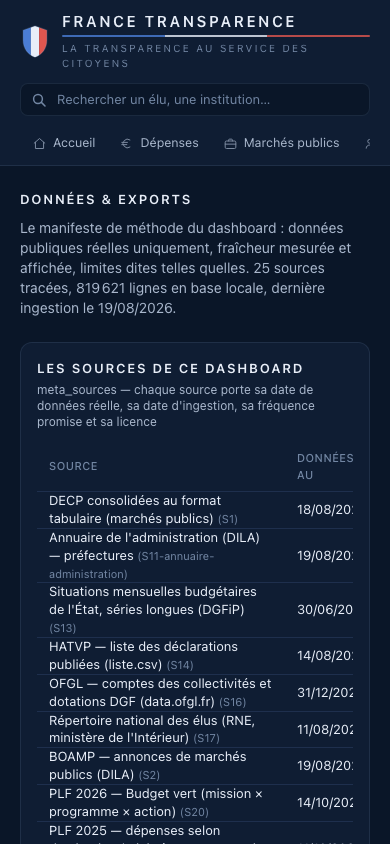
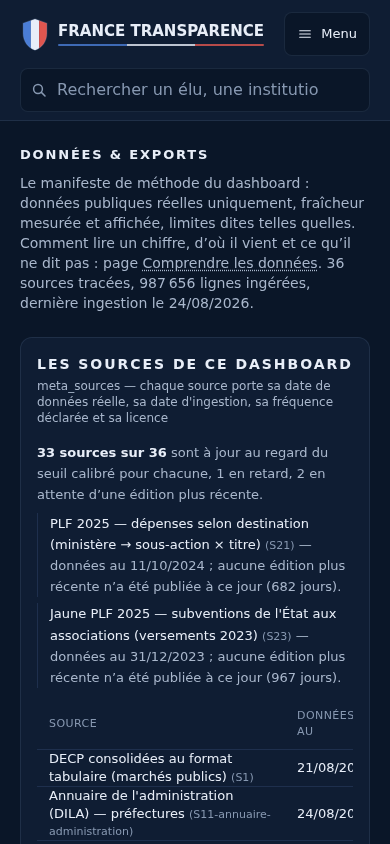
Le dépôt photographiait encore le chrome du 19/08
Les captures et le README disaient 30 sources, 10 onglets, pas
/comprendre : le site servi en a 36, 11 (dont Recettes), et
l'appareil pédagogique hors nav. G9 aligne la doc publique
sur l'écran actuel — pas un redesign.

Changed region(s): [[0.0923, 0.4005, 0.9231, 1.0], [0.0308, 0.154, 0.9231, 0.3697], [0.0615, 0.0, 0.9231, 0.1232]]

diff --git a/README.md b/README.md
@@ -1,14 +1,14 @@
 # France Transparence
 
-Dashboard web sur la transparence de la vie politique française : dépenses de l'État, commande publique, élus, lobbying, financement politique, frais et train de vie, Journal officiel — **100 % données publiques réelles**, aucun chiffre fabriqué. L'honnêteté est le principe produit : chaque module affiche la date réelle de ses données (badge de fraîcheur alimenté par la table `meta_sources`), le mot « en direct » est banni parce qu'aucune source publique ne le permet, et ce que l'open data ne contient pas est documenté comme tel (la « boîte noire » du module Frais & train de vie). L'ensemble tient dans une base SQLite unique, reconstruite localement depuis 30 sources officielles tracées.
+Dashboard web sur la transparence de la vie politique française : dépenses et recettes de l'État, commande publique, élus, lobbying, financement politique, frais et train de vie, finances locales, Journal officiel — **100 % données publiques réelles**, aucun chiffre fabriqué. L'honnêteté est le principe produit : chaque module affiche la date réelle de ses données (badge de fraîcheur alimenté par la table `meta_sources`), le mot « en direct » est banni parce qu'aucune source publique ne le permet, et ce que l'open data ne contient pas est documenté comme tel (la « boîte noire » du module Frais & train de vie, l'encart « hors champ » de l'accueil). L'ensemble tient dans une base SQLite unique, reconstruite localement depuis **36 sources officielles tracées** — le catalogue daté, avec la date réellement ingérée de chacune, est la page [`/donnees`](https://francetransparence.fr/donnees/), régénérée à chaque publication. Une page pédagogique [`/comprendre`](https://francetransparence.fr/comprendre/) — **hors navigation principale** — explique comment lire ces publications : glossaire, provenance, limites, journal des lectures.
 
-![Page d'accueil de France Transparence](docs/screenshots/accueil.png)
+![Page d'accueil, 24/08/2026 : onze onglets dont Recettes, champ de recherche dans le chrome, encart « hors champ » au-dessus du 240 Md€ d'exécution](docs/screenshots/accueil.png)
 
 ## Site public
 
 **https://francetransparence.fr**
 
-Export statique du dashboard, servi **directement par nginx** depuis un serveur dédié (Scaleway Dedibox, Ubuntu 22.04). **Aucun process Node en production** : le HTML est pré-rendu au build, nginx ne fait que servir des fichiers déjà écrits sur disque (et déjà compressés).
+Export statique du dashboard, servi **directement par nginx** depuis un serveur dédié (Scaleway Dedibox, Ubuntu 22.04). **Aucun process Node en production** : le HTML est pré-rendu au build, nginx ne fait que servir des fichiers déjà écrits sur disque (et déjà compressés). Thème sombre unique, **aucun cookie, aucun traceur** — le HTML servi n'en porte pas. Ce n'est pas un flux temps réel : la fraîcheur affichée est celle de la dernière ingestion qui a réussi à publier.
 
 Le site est reconstruit chaque matin vers 05:17 (heure de Paris) par le script serveur `ft-deploy`, déclenché par la minuterie systemd `ft-deploy.timer`. La publication est **tout ou rien** : mise à jour du dépôt → contrôle de l'identité de déploiement → ingestion de tous les pipelines → tests → build statique → contrôles de santé du site généré → **bascule atomique** du lien symbolique `current` vers la nouvelle release. Si une étape échoue, le lien ne bascule pas : l'ancienne version continue d'être servie sans interruption, et une alerte part. La fraîcheur affichée reste donc toujours celle de la base réellement construite.
 
@@ -41,9 +41,9 @@ make app-install  # npm install dans app/
 make dev          # http://localhost:3620
 ```
 
-Production : `make build` puis `cd app && npm run start` (port 3620 dans les deux cas).
+Le mode local SSR (`make build` puis `cd app && npm run start`, port 3620) n'est **pas** la production : en ligne, c'est `make build-static` (`FT_EXPORT=1`) servi par nginx, sans process Node.
 
-La base `data/france.db` (~490 Mo, 70 tables) est gitignorée : elle se reconstruit entièrement par `make ingest`.
+La base `data/france.db` (493 Mo, 81 tables et 6 vues au 24/08/2026 — ça bouge ; le schéma : [docs/SCHEMA-DB.md](docs/SCHEMA-DB.md)) est gitignorée : elle se reconstruit entièrement par `make ingest`.
 
 ## Ré-ingérer
 
@@ -53,7 +53,7 @@ La base `data/france.db` (~490 Mo, 70 tables) est gitignorée : elle se reconstr
 make ingest-<source>
 ```
 
-avec `<source>` parmi les pipelines déclarés dans la variable `PIPELINES` du `Makefile`, qui fait autorité : `referentiels`, `budget_mensuel`, `budget_structure`, `decp`, `boamp`, `approch`, `jorf`, `parlement`, `integrite`, `hatvp_declarations`, `lobbying`, `financement`, `collectivites`, `elections`, `trainvie`, `cada`, `registre_ue`, `dette_maastricht`, `deficit_maastricht`, `dole`, `agregats_apu`, `sirene`.
+avec `<source>` parmi les pipelines déclarés dans la variable `PIPELINES` du `Makefile`, qui fait autorité (24 cibles, dans cet ordre) : `referentiels`, `budget_mensuel`, `budget_structure`, `decp`, `boamp`, `approch`, `jorf`, `parlement`, `integrite`, `hatvp_declarations`, `lobbying`, `financement`, `collectivites`, `elections`, `trainvie`, `cada`, `registre_ue`, `dette_maastricht`, `deficit_maastricht`, `dole`, `agregats_apu`, `cge`, `protection_sociale`, `sirene`.
 
 ## Tests
 
@@ -78,26 +78,40 @@ Détails : [docs/ARCHITECTURE.md](docs/ARCHITECTURE.md).
 
 ## Modules du dashboard
 
+Onze onglets, dans l'ordre de la navigation (`MainNav`) — libellés complets, pas de 12ᵉ onglet. `/comprendre` et `/alertes` existent ; ce ne sont pas des onglets.
+
 | Route | Module | Contenu et fraîcheur réelle |
 |---|---|---|
-| `/` | Accueil | Compteurs, carte des marchés, flux JO et alertes — chaque bloc daté par sa source (budget au dernier mois publié, marchés J-1, JO du jour). |
-| `/depenses` | Dépenses de l'État | Exécution mensuelle DGFiP (~6 semaines de décalage), structure PLF 2026 (mention « PLF » : la LFI 2026 n'existe pas en données), 112 722 subventions aux associations (versements 2023). |
-| `/marches` | Commande publique | Plusieurs centaines de milliers de marchés consolidés, sur 24 mois glissants comptés à la date de notification initiale du marché (quotidien, notifications J-1, consolidation légale ≤ 2 mois), environ 9 000 appels d'offres en cours (BOAMP, jour même), environ 4 000 achats à venir (APProch). |
-| `/elus` | Élus & institutions | Environ 36 000 élus (RNE, trimestriel) dont 577 députés et 348 sénateurs (open data AN/Sénat/Datan, quotidien). |
-| `/elus/[id]` | Fiche élu | Plus de 1 000 fiches statiques (parlementaires et présidences d'exécutifs départementaux/régionaux — les autres élus restent dans les listes et agrégats) : mandats, 30 derniers votes sur les quelque 8 400 scrutins AN (le scrutin le plus récent est daté : hors session, il peut avoir plusieurs semaines), scores Datan crédités, lien HATVP. |
+| `/` | Accueil | Compteurs, carte des marchés, flux JO et alertes — chaque bloc daté par sa source (budget au dernier mois publié, marchés J-1, JO du jour). Encart « hors champ » au-dessus de l'exécution : ce que le site ne couvre pas. |
+| `/depenses` | Dépenses | Exécution mensuelle DGFiP (~6 semaines de décalage), structure PLF 2026 (mention « PLF » : la LFI 2026 n'existe pas en données), subventions aux associations (versements 2023). |
+| `/recettes` | Recettes | Même source S13 que les dépenses : recettes nettes du budget général (fiscales, non fiscales, fonds de concours à part), cumuls depuis le 1er janvier, séries depuis 2013. Section cloisonnée : agrégats ESA des APU (S44) — ce n'est pas le budget de l'État. |
+| `/marches` | Marchés publics | Marchés consolidés sur 24 mois glissants comptés à la date de notification initiale (quotidien, notifications J-1, consolidation légale ≤ 2 mois), appels d'offres en cours (BOAMP, jour même), achats à venir (APProch). Les comptes bougent chaque jour : voir `/donnees`. |
+| `/elus` | Élus & Institutions | Environ 36 000 élus (RNE, trimestriel) dont 577 députés et 348 sénateurs (open data AN/Sénat/Datan, quotidien). Les conseillers municipaux n'entrent dans aucun chiffre de cette page. |
+| `/elus/[id]` | Fiche élu | Pas un onglet. Plus de 1 000 fiches statiques (parlementaires et présidences d'exécutifs départementaux/régionaux — les autres élus restent dans les listes et agrégats) : mandats, 30 derniers votes sur les quelque 8 400 scrutins AN (le scrutin le plus récent est daté : hors session, il peut avoir plusieurs semaines), scores Datan crédités, lien HATVP. |
 | `/lobbying` | Lobbying | Répertoire HATVP des représentants d'intérêts (quotidien) : entités inscrites, activités déclarées, dépenses par exercice annuel en fourchettes, croisement avec les marchés publics. Puis, dans un bloc **cloisonné** en fin de page, le registre de transparence de l'Union européenne (quotidien) : organisations inscrites, dont celles à siège en France. Deux registres, deux cadres juridiques — jamais fusionnés, jamais comparés. |
-| `/financement` | Financement politique | Comptes des partis, exercice 2024 (publié le 10/02/2026 — le dernier possible) ; comptes de campagne des législatives 2024, 4 010 candidats (municipales 2026 : aucun compte publié à ce jour, instruction CNCCFP en cours). |
-| `/frais` | Frais & train de vie | 56 faits chiffrés sourcés (barèmes au 01/01/2026, contrôles exercice 2024, Élysée audité 2024) + 8 opacités documentées — pas de notes de frais : elles ne sont ni publiées ni communicables. **Carte des verrous** : 60 941 avis et conseils de la CADA de 1984 à 2024, dépouillés en agrégats (qui refuse, sur quel fondement, et dans quel sens la commission tranche), avec le retard de versement de la source affiché en clair. |
+| `/financement` | Financement | Comptes des partis, exercice 2024 (publié le 10/02/2026 — le dernier possible) ; comptes de campagne des législatives 2024, 4 010 candidats (municipales 2026 : aucun compte publié à ce jour, instruction CNCCFP en cours). |
+| `/frais` | Frais | 56 faits chiffrés sourcés (barèmes au 01/01/2026, contrôles exercice 2024, Élysée audité 2024) + 8 opacités documentées — pas de notes de frais : elles ne sont ni publiées ni communicables. **Carte des verrous** : avis et conseils de la CADA de 1984 à 2024, dépouillés en agrégats (qui refuse, sur quel fondement, et dans quel sens la commission tranche), avec le retard de versement de la source affiché en clair. |
 | `/collectivites` | Finances locales | Comptes OFGL 2025 (provisoires, chargés en juillet 2026), dotations DGF 2018-2026, carte en €/habitant. |
-| `/documents` | Journal officiel | Environ 2 700 textes des 30 derniers JO (quotidien, JO du jour disponible vers 00h30), filtres lois/décrets/nominations. |
-| `/alertes` | Alertes transparence | Environ 1 600 alertes sur 8 types, chacune avec sa règle de calcul et sa base légale, recalculées à chaque ingestion. |
-| `/donnees` | Données & exports | Catalogue des 30 sources avec fraîcheur mesurée (le moniteur de santé des sources), licences, règles des alertes, 6 exports JSON statiques (méta, alertes, élus, budget mensuel, agrégats marchés, index de recherche) reconstruits à chaque publication. |
+| `/documents` | Documents | Environ 2 600 textes des 30 derniers JO (quotidien, JO du jour disponible vers 00h30), filtres lois/décrets/nominations ; dossiers législatifs DILA (fonds DOLE) en page dédiée. |
+| `/donnees` | Données | Catalogue des **36 sources** avec fraîcheur mesurée (le moniteur de santé des sources), licences, règles des alertes, **7** exports JSON statiques (`/api/meta.json`, `alertes`, `elus`, `budget-mensuel`, `marches-agregats`, `lobbying-marches`, `/data/recherche-index.json`) reconstruits à chaque publication. |
+| `/alertes` | Alertes transparence | **Page, pas un onglet.** Environ 1 600 alertes sur 8 types, chacune avec sa règle de calcul et sa base légale, recalculées à chaque ingestion. |
+| `/comprendre` | Comprendre les données | **Hors nav.** Appareil pédagogique déjà en ligne : fonctionnement de chaque publication, glossaire, provenance, limites, journal daté des lectures. Lien pied de page, encart accueil, `/donnees`. Aucun chiffre qui dérive. |
 
 Les volumes de ce tableau sont donnés en **ordre de grandeur** : la plupart des sources publient quotidiennement, ces nombres bougent à chaque ingestion. La seule valeur qui fait foi est celle affichée par le site lui-même, avec la date de ses données — c'est le rôle du badge de fraîcheur et de la page `/donnees`, régénérée à chaque publication.
 
+Captures de la release servie le 24/08/2026 — elles datent ce jour-là, elles ne gèlent pas un compteur :
+
+![Dépenses de l'État : tuiles d'exécution, recettes et solde au pli, onze onglets dont Recettes](docs/screenshots/depenses.png)
+
+![Marchés publics : tuiles DECP, BOAMP et APProch, carte des montants par département](docs/screenshots/marches.png)
+
+![Comprendre les données : sommaire pédagogique, page hors navigation principale](docs/screenshots/comprendre.png)
+
+![Données & exports : 36 sources tracées, moniteur de fraîcheur](docs/screenshots/donnees.png)
+
 ## Sources & licences
 
-Sources majeures (le catalogue complet et daté est sur la page `/donnees` et dans [docs/SOURCES.md](docs/SOURCES.md)) :
+Sources majeures (le catalogue **complet et daté** des 36 sources est la page `/donnees`, régénérée à chaque publication ; le référentiel : [docs/SOURCES.md](docs/SOURCES.md)) :
 
 | Source | Fraîcheur | Licence |
 |---|---|---|
@@ -116,8 +130,11 @@ Sources majeures (le catalogue complet et daté est sur la page `/donnees` et da
 | CNCCFP — comptes des partis et comptes de campagne | annuelle / par scrutin | Licence Ouverte |
 | geo.api.gouv.fr, france-geojson, populations INSEE | statique / annuelle | Licence Ouverte |
 | CADA — avis et conseils (ensemble consolidé, agrégats seulement) | irrégulière (lots, 2 à 4 fois par an) | Licence Ouverte (fr-lo) |
+| CGE — bilan patrimonial de l'État, pièce de synthèse (DGFiP) | annuelle | Licence Ouverte 2.0 (Etalab) |
+| Eurostat — dette et déficit des APU au sens de Maastricht, agrégats ESA | trimestrielle / annuelle | Décision 2011/833/UE |
+| DREES — prestations de protection sociale | annuelle | Licence Ouverte 2.0 (Etalab) |
 
-Crédits : consolidation DECP par le projet communautaire `decp-processing` de Colin Maudry ; scores calculés par Datan (datan.fr, méthodologie liée dans l'UI) ; DILA (BOAMP, JORF, annuaire, référentiel de l'organisation de l'État) ; HATVP ; CADA ; OFGL ; INSEE ; CNCCFP ; DGFiP / data.economie.gouv.fr ; fonds de carte france-geojson (Grégoire David) et contours Etalab. Toutes les réutilisations mentionnent leur source, conformément à la Licence Ouverte.
+Crédits : consolidation DECP par le projet communautaire `decp-processing` de Colin Maudry ; scores calculés par Datan (datan.fr, méthodologie liée dans l'UI) ; DILA (BOAMP, JORF, annuaire, référentiel de l'organisation de l'État) ; HATVP ; CADA ; OFGL ; INSEE ; CNCCFP ; DGFiP / data.economie.gouv.fr ; Eurostat ; DREES ; fonds de carte france-geojson (Grégoire David) et contours Etalab. Chaque réutilisation mentionne sa source et porte la licence de **cette** source — il n'y a pas une licence unique pour tout le site.
 
 ## Limites connues
 
@@ -138,4 +155,4 @@ Signaler une donnée fausse (avec source officielle), proposer une source, corri
 
 ## Rapport de mission
 
-Construction, méthode multi-agents, corrections d'honnêteté en cours de route et ce qui n'est pas ingéré à ce jour : [docs/RAPPORT-MISSION.md](docs/RAPPORT-MISSION.md).
+Journal de construction du 19-20/08/2026 (volumétrie **datée**, non réécrite) : [docs/RAPPORT-MISSION.md](docs/RAPPORT-MISSION.md). L'état courant se lit ici et sur `/donnees`.

diff --git a/docs/NOTES-FRONT.md b/docs/NOTES-FRONT.md
@@ -1,5 +1,7 @@
 # Notes des pipelines pour le frontend — compilées le 19/08/2026
 
+**Contrat front révisé le 24/08/2026** (îles client, kit `ui/`) — les volumétries ci-dessous restent celles du 19/08 et **dérivent**.
+
 Condensé des avertissements « pour le front » remontés par chaque pipeline après épreuve réelle. À lire avec docs/SCHEMA-DB.md (schéma exact + counts). **Les volumétries et les montants cités sont ceux constatés à cette date** : les sources publient quotidiennement, ces valeurs dérivent à chaque ingestion, et seule celle qu'affiche le site fait foi. Ce qui ne dérive pas — les pièges de données, les conventions de calcul, les interdits d'affichage — est l'objet réel de ces notes. Règle générale : **chaque module affiche son FreshnessBadge** (date_donnees, source, fréquence, url — depuis `meta_sources`) et ne montre JAMAIS un montant sans source.
 
 ## Budget de l'État (S13, S20, S21, S23)
@@ -72,10 +74,13 @@ Condensé des avertissements « pour le front » remontés par chaque pipeline a
 - `alertes(id, type, gravite, titre, detail, regle, base_legale, source_url, date_calcul)` — TOUJOURS afficher règle + base légale (dépliable AlertItem) ; gravités : haute/moyenne/info ; types préfixés par domaine (`A1_*`, `lobbying_*`, `financement_*`).
 
 ## Design system (rappels)
-- Imports nommés `@/components/ui/*`, `@/lib/format` ; pages = Server Components (seule SearchBox est client) ; `getDb()` peut renvoyer null → message honnête « base non construite, lancer make ingest ».
+- Imports nommés `@/components/ui/*`, `@/lib/format`. Les **pages restent des Server Components** : elles lisent la base et montent le kit. `getDb()` peut renvoyer null → message honnête « base non construite, lancer make ingest ».
+- **Îles `"use client"`** (constaté le 24/08) : `MainNav`, `SearchBox`, `MapFrance`, et les wrappers de `app/src/components/client/` (filtres, listes paginées, cartes hydratées). Ce n'est plus « seule SearchBox est client ».
+- **Graphiques du kit** (`LineChart`, `BarList`, `Donut`) et `VueTableau` / `AlertItem` : interactifs depuis G8 **sans île JS** — survol par CSS `:has()`, tableau jumelle et dépliable d'alerte en `<details>` natif. Ils se rendent depuis un Server Component. G8 a rouvert l'interaction ; ça ne fait pas de chaque graphique une île.
+- Le kit `app/src/components/ui/` est **partagé**. Une page module ne le fork pas. Le chrome (`layout.tsx`, `MainNav`, `globals.css`) se change avec le **chantier chrome**, pas en silence depuis une page. L'interdiction d'écrire `ui/*` n'est plus le contrat : G2 a écrit le kit, G8 l'a rouvert pour l'interaction.
 - Chaque page crée ses requêtes dans `app/src/lib/queries/<module>.ts` (fichier PAR module, jamais partagé entre agents).
-- Ne PAS toucher : layout.tsx, MainNav, globals.css, composants ui/* (signaler un besoin, ne pas modifier).
 - Vue tableau jumelle pour chaque graphique (règle DATAVIZ) ; deltas de dépense = neutres par défaut (upIsGood null).
+- **Toujours vrai** : FreshnessBadge sur chaque module ; `perimetre` / `NoticeLecture` (ne pas recoudre un périmètre depuis ici) ; **11 onglets, pas un 12ᵉ** (`/comprendre` et `/alertes` hors nav) ; thème sombre unique ; 0 sondage.
 - **Appareil pédagogique** : page `/comprendre` (fonctionnement de chaque publication, glossaire, provenance labellée « D’où ça vient » sur chaque module, limites, journal daté des lectures, hors nav principale — 11 onglets déjà justes). Canal public des signalements d’erreur de lecture : `CONTACT_ISSUES_URL` (issues du dépôt) ; une demande qui porte sur une personne reste le canal privé de `/donnees-personnelles`. Chaque module de données porte `NoticeLecture` (comment lire / d’où viennent / ce que ça ne dit pas) renvoyant vers `/comprendre/#…` — y compris `/alertes` et `/depenses/destination`. Les fiches d’élus et les pages de mission renvoient vers l’ancre correspondante. Pied de page + `/donnees` + accueil y renvoient. L’ancre `#recettes` existe : ne pas la faire pointer vers `#depenses`. L’ancre `#lectures` porte le journal. Un chiffre borné d’une tuile porte sa borne (`perimetre`) : la fenêtre du croisement lobbying × marchés (24 mois), le caractère provisoire des totaux communaux, le fait que la « DGF nationale » affichée est celle des communes, le PLF 2025 (projet) des tuiles CP/AE de mission, le budget général des cumuls d’exécution, le stock du jour des achats APProch (ce n’est pas une fenêtre de 12 mois), et les travailleurs indépendants inclus dans les totaux du registre de l’Union. « Entités actives » du répertoire HATVP veut dire encore inscrites.
 
 ## Référencement et cartes de partage (rappels)

diff --git a/docs/ARCHITECTURE.md b/docs/ARCHITECTURE.md
@@ -1,7 +1,10 @@
 # ARCHITECTURE.md — France Transparence
 
-**Document de référence technique · Établi le 19/08/2026.**
-Complète `docs/SOURCES.md` (le *quoi* : le périmètre de sources ingérées, 11 modules) et `docs/DATAVIZ.md` (le *comment visuel*). Ici : le *comment technique*.
+**Document de référence technique · Établi le 19/08/2026. Révisé le 24/08/2026.**
+
+État courant : **24 pipelines**, **36 sources**, **11 onglets** + `/comprendre` hors nav, kit `app/src/components/ui/` écrit (G2/G8). Le flux de données et le schéma SQL noyau ci-dessous n'ont pas changé de contrat.
+
+Complète `docs/SOURCES.md` (le *quoi* : le périmètre de sources ingérées) et `docs/DATAVIZ.md` (le *comment visuel*). Ici : le *comment technique*.
 
 ---
 
@@ -43,10 +46,16 @@ france-transparence/
     ├── next.config.ts        # serverExternalPackages: better-sqlite3 ; turbopack.root
     └── src/
         ├── lib/db.ts         # ouverture lecture seule + garde « base absente »
+        ├── components/
+        │   ├── MainNav.tsx   # client — 11 onglets (pas /comprendre, pas /alertes)
+        │   └── ui/           # kit partagé (G2/G8) : graphiques, FreshnessBadge, NoticeLecture…
         └── app/
             ├── globals.css   # jetons DATAVIZ.md §0 en variables CSS + @theme
-            ├── layout.tsx    # header FRANCE TRANSPARENCE + nav des modules
-            └── page.tsx      # (pages des modules au fur et à mesure)
+            ├── layout.tsx    # chrome + SearchBox ; pied vers /comprendre
+            ├── page.tsx      # accueil
+            ├── recettes/     # onglet Recettes (après Dépenses)
+            ├── comprendre/   # appareil pédagogique, hors nav
+            └── …             # un dossier par module
 ```
 
 ---
@@ -70,9 +79,9 @@ data/france.db                   (SQLite, WAL ; tables métier par pipeline)
       │    dans meta_sources À CHAQUE ingestion réussie
       ▼
 app/src/lib/db.ts                (better-sqlite3, readonly, query_only=ON)
-      │  Server Components : requêtes directes dans les pages ;
-      │  route handlers app/src/app/api/* seulement pour l'interactif
-      │  (recherche, filtres client) et le ré-export /donnees
+      │  Server Components : requêtes au BUILD (export statique) ;
+      │  l'interactif côté navigateur lit des JSON pré-générés
+      │  (/data/recherche-index.json, /api/*.json) — pas une API live
       ▼
 Composants React (jetons DATAVIZ.md, badge de fraîcheur obligatoire)
 ```
@@ -90,7 +99,7 @@ Règles du flux :
 
 ```sql
 CREATE TABLE meta_sources (           -- fraîcheur : donnée de premier rang
-    source_id      TEXT PRIMARY KEY,  -- 'S1'…'S44', 'S22' (ids de SOURCES.md)
+    source_id      TEXT PRIMARY KEY,  -- 'S1'…'S45', ids composés (S5-AMO10, S27-*, …)
     nom            TEXT NOT NULL,
     url            TEXT NOT NULL,
     licence        TEXT NOT NULL,     -- 'Licence Ouverte 2.0', 'ODbL'…
@@ -184,7 +193,7 @@ Contrat d'un pipeline :
 5. échoue bruyamment (exception, exit ≠ 0) plutôt que d'écrire des données partielles : pas de `meta_sources` mis à jour = ingestion non comptée ;
 6. tout paramètre variable (législature 17, seuils 40/60 k€ au 01/04/2026, millésimes) est une constante nommée en tête de module, jamais enfouie.
 
-Côté app : pages de module dans `app/src/app/<module>/page.tsx` (routes : `/depenses`, `/marches`, `/elus`, `/lobbying`, `/financement`, `/frais`, `/collectivites`, `/documents`, `/donnees`) ; requêtes SQL dans `app/src/lib/` (un fichier par domaine), jamais dans les composants client.
+Côté app : pages de module dans `app/src/app/<module>/page.tsx` (routes de nav : `/depenses`, `/recettes`, `/marches`, `/elus`, `/lobbying`, `/financement`, `/frais`, `/collectivites`, `/documents`, `/donnees` ; `/comprendre` hors nav ; `/alertes` existe, ce n'est pas un onglet) ; requêtes SQL dans `app/src/lib/` (un fichier par domaine), jamais dans les composants client. Le kit `ui/` est partagé : une page module ne le fork pas. Les pages restent des Server Components ; les îles `"use client"` et l'interaction G8 sont décrites dans `docs/NOTES-FRONT.md`.
 
 ---
 

diff --git a/docs/deploiement/RUNBOOK.md b/docs/deploiement/RUNBOOK.md
@@ -17,7 +17,7 @@ Un run CI rouge n'est **jamais** une panne du site ; un site figé n'est **jamai
 ## 1. Architecture d'exploitation
 
 ```
-30 sources open data officielles (data.gouv.fr, DILA, AN, Sénat, HATVP, DGFiP, OFGL, CNCCFP…)
+36 sources open data officielles (data.gouv.fr, DILA, AN, Sénat, HATVP, DGFiP, OFGL, CNCCFP, Eurostat, DREES…) — catalogue vivant : `/donnees`
         │  re-téléchargées à chaque cycle — rien n'est hébergé chez nous
         ▼
 SERVEUR DÉDIÉ (Scaleway Dedibox, Ubuntu 22.04) — ft-deploy.timer, tous les jours 05:17 Paris
@@ -89,7 +89,7 @@ Instantané, sans rebuild : c'est une bascule de lien symbolique, atomique comme
 ```bash
 ft-etat              # tableau de bord : révision servie, fraîcheur, dernière sonde, TLS, services, disque
 ft-sonde --verbeux   # rejoue les 10 contrôles de disponibilité et les détaille
-ft-fraicheur         # fraîcheur RÉELLE des 30 sources amont (--json, --silencieux)
+ft-fraicheur         # fraîcheur RÉELLE des 36 sources amont (--json, --silencieux)
 ft-alerte --test     # vérifie que le canal de notification fonctionne vraiment
 ```
 
@@ -170,7 +170,7 @@ Idempotent (chaque étape teste avant d'agir) : génère la clé SSH `~/.ssh/id_
 
 - **Automatique, toutes les 5 minutes** : `ft-sonde` vérifie 10 points — point de santé, page d'accueil et son titre, jours restants sur le certificat, espace disque, inodes, cohérence du lien `current`, **âge des données générées** (c'est lui qui détecte qu'une reconstruction quotidienne a cessé de fonctionner), `nginx.service` actif, `ft-deploy.timer` actif, absence de plantages répétés de workers nginx. Chaque passage écrit une ligne dans `sonde.log`.
 - **Quotidien, une commande** : `ft-etat` — révision servie, issue du dernier déploiement, fraîcheur, TLS, services, sauvegardes, disque, le tout recoupé entre plusieurs sources pour signaler un journal incomplet plutôt que de rassurer à tort.
-- **Fraîcheur réelle des sources** : `ft-fraicheur` compare, pour chacune des 30 sources, la date de la donnée la plus récente en base (`meta_sources.date_donnees`) à un seuil calibré par source. C'est le complément indispensable de la sonde : le site peut être fraîchement régénéré chaque nuit alors qu'une source amont a cessé de publier depuis des semaines.
+- **Fraîcheur réelle des sources** : `ft-fraicheur` compare, pour chacune des 36 sources, la date de la donnée la plus récente en base (`meta_sources.date_donnees`) à un seuil calibré par source. C'est le complément indispensable de la sonde : le site peut être fraîchement régénéré chaque nuit alors qu'une source amont a cessé de publier depuis des semaines.
 - **Alertes** : `ft-alerte` est le point d'extension unique — il écrit **toujours** dans le journal systemd en priorité `err` (`journalctl -t ft-alerte -p err`), puis pousse vers un webhook si l'un est configuré. Un échec du webhook n'est jamais remonté à l'appelant : le journal reste le canal de dernier recours.
 - **Moniteur public de fraîcheur** : la page `/donnees` affiche la date réelle de chaque source — le healthcheck lisible par n'importe qui, sans accès au serveur.
 - **CI** : un run rouge sur `publication.yml` ouvre une issue `publication-echec`. Activer les notifications GitHub sur le dépôt (Watch → Custom → Issues) pour être prévenu.

diff --git a/STATUS.md b/STATUS.md
@@ -1,6 +1,7 @@
 # STATUS — France Transparence
 
 - **Phase courante** : le site tourne seul sur son propre serveur. La mission de déploiement initiale (phases R1-R4, décisions 20-24, GitHub Pages) est close ; le **20/08/2026** le site a été migré vers un serveur dédié et son propre domaine (décision 25).
+- **État courant (24/08/2026)** : release servie `20260824-104146` — **11 onglets** + `/comprendre` hors nav, **36 sources** (catalogue `/donnees`). Export nginx, aucun process Node.
 - **SITE PUBLIC EN LIGNE** : https://francetransparence.fr — export statique Next.js servi **directement par nginx** sur un serveur dédié (Scaleway Dedibox, Ubuntu 22.04), **aucun process Node en production**. Reconstruit chaque matin vers **05:17 Paris** par `ft-deploy` (minuterie systemd `ft-deploy.timer`), en **tout ou rien** : `git pull` → contrôle d'identité de déploiement (`ft-localiser`) → ingestion → tests → build → contrôles de santé → **bascule atomique du lien `current`**. Échec d'une étape = le lien ne bascule pas, l'ancienne version reste servie, une alerte part. 5 releases conservées, retour arrière par `ft-rollback` sans rebuild.
 - **Hébergement** : serveur dédié — payant. L'ancien « 0 €/mois » de GitHub Pages n'a plus cours.
 - **GitHub Pages ne sert plus le site** : l'ancienne adresse ne porte plus qu'une page de redirection canonique (`pages-redirection/`) — deux copies du site en ligne se seraient partagé l'autorité de référencement sur ~1 066 pages, et Pages ne sait pas émettre de 301.
@@ -9,4 +10,4 @@
 - **Repo public** : https://github.com/koutakou/france-transparence (main). Un push sur `main` ne publie plus rien tout seul : la production se met à jour au cycle suivant de `ft-deploy` (ou par un `ft-deploy` lancé à la main sur le serveur).
 - **Exploitation** : docs/deploiement/RUNBOOK.md (serveur, de bout en bout) ; décision et limites : docs/deploiement/DECISION.md ; ce qui exige encore un humain : docs/ACTIONS-HUMAINES.md.
 - **Chaîne locale intacte** : `make dev` (SSR local, port 3620), `make ingest`, `make test` (suite pytest complète), `make build-static`/`serve-static` (export identique à la prod).
-- **Reprise éventuelle** : lire JOURNAL.md + docs/deploiement/DECISION.md + RUNBOOK.md — le site tourne seul ; ce qui n'est pas ingéré à ce jour est listé dans docs/RAPPORT-MISSION.md §7.
+- **Reprise éventuelle** : lire JOURNAL.md + docs/deploiement/DECISION.md + RUNBOOK.md — le site tourne seul. `docs/RAPPORT-MISSION.md` est un journal **daté** (19-20/08) : son §7 « non ingéré » se lit au passé. L'état courant des sources est `/donnees` et `docs/SOURCES.md`.
